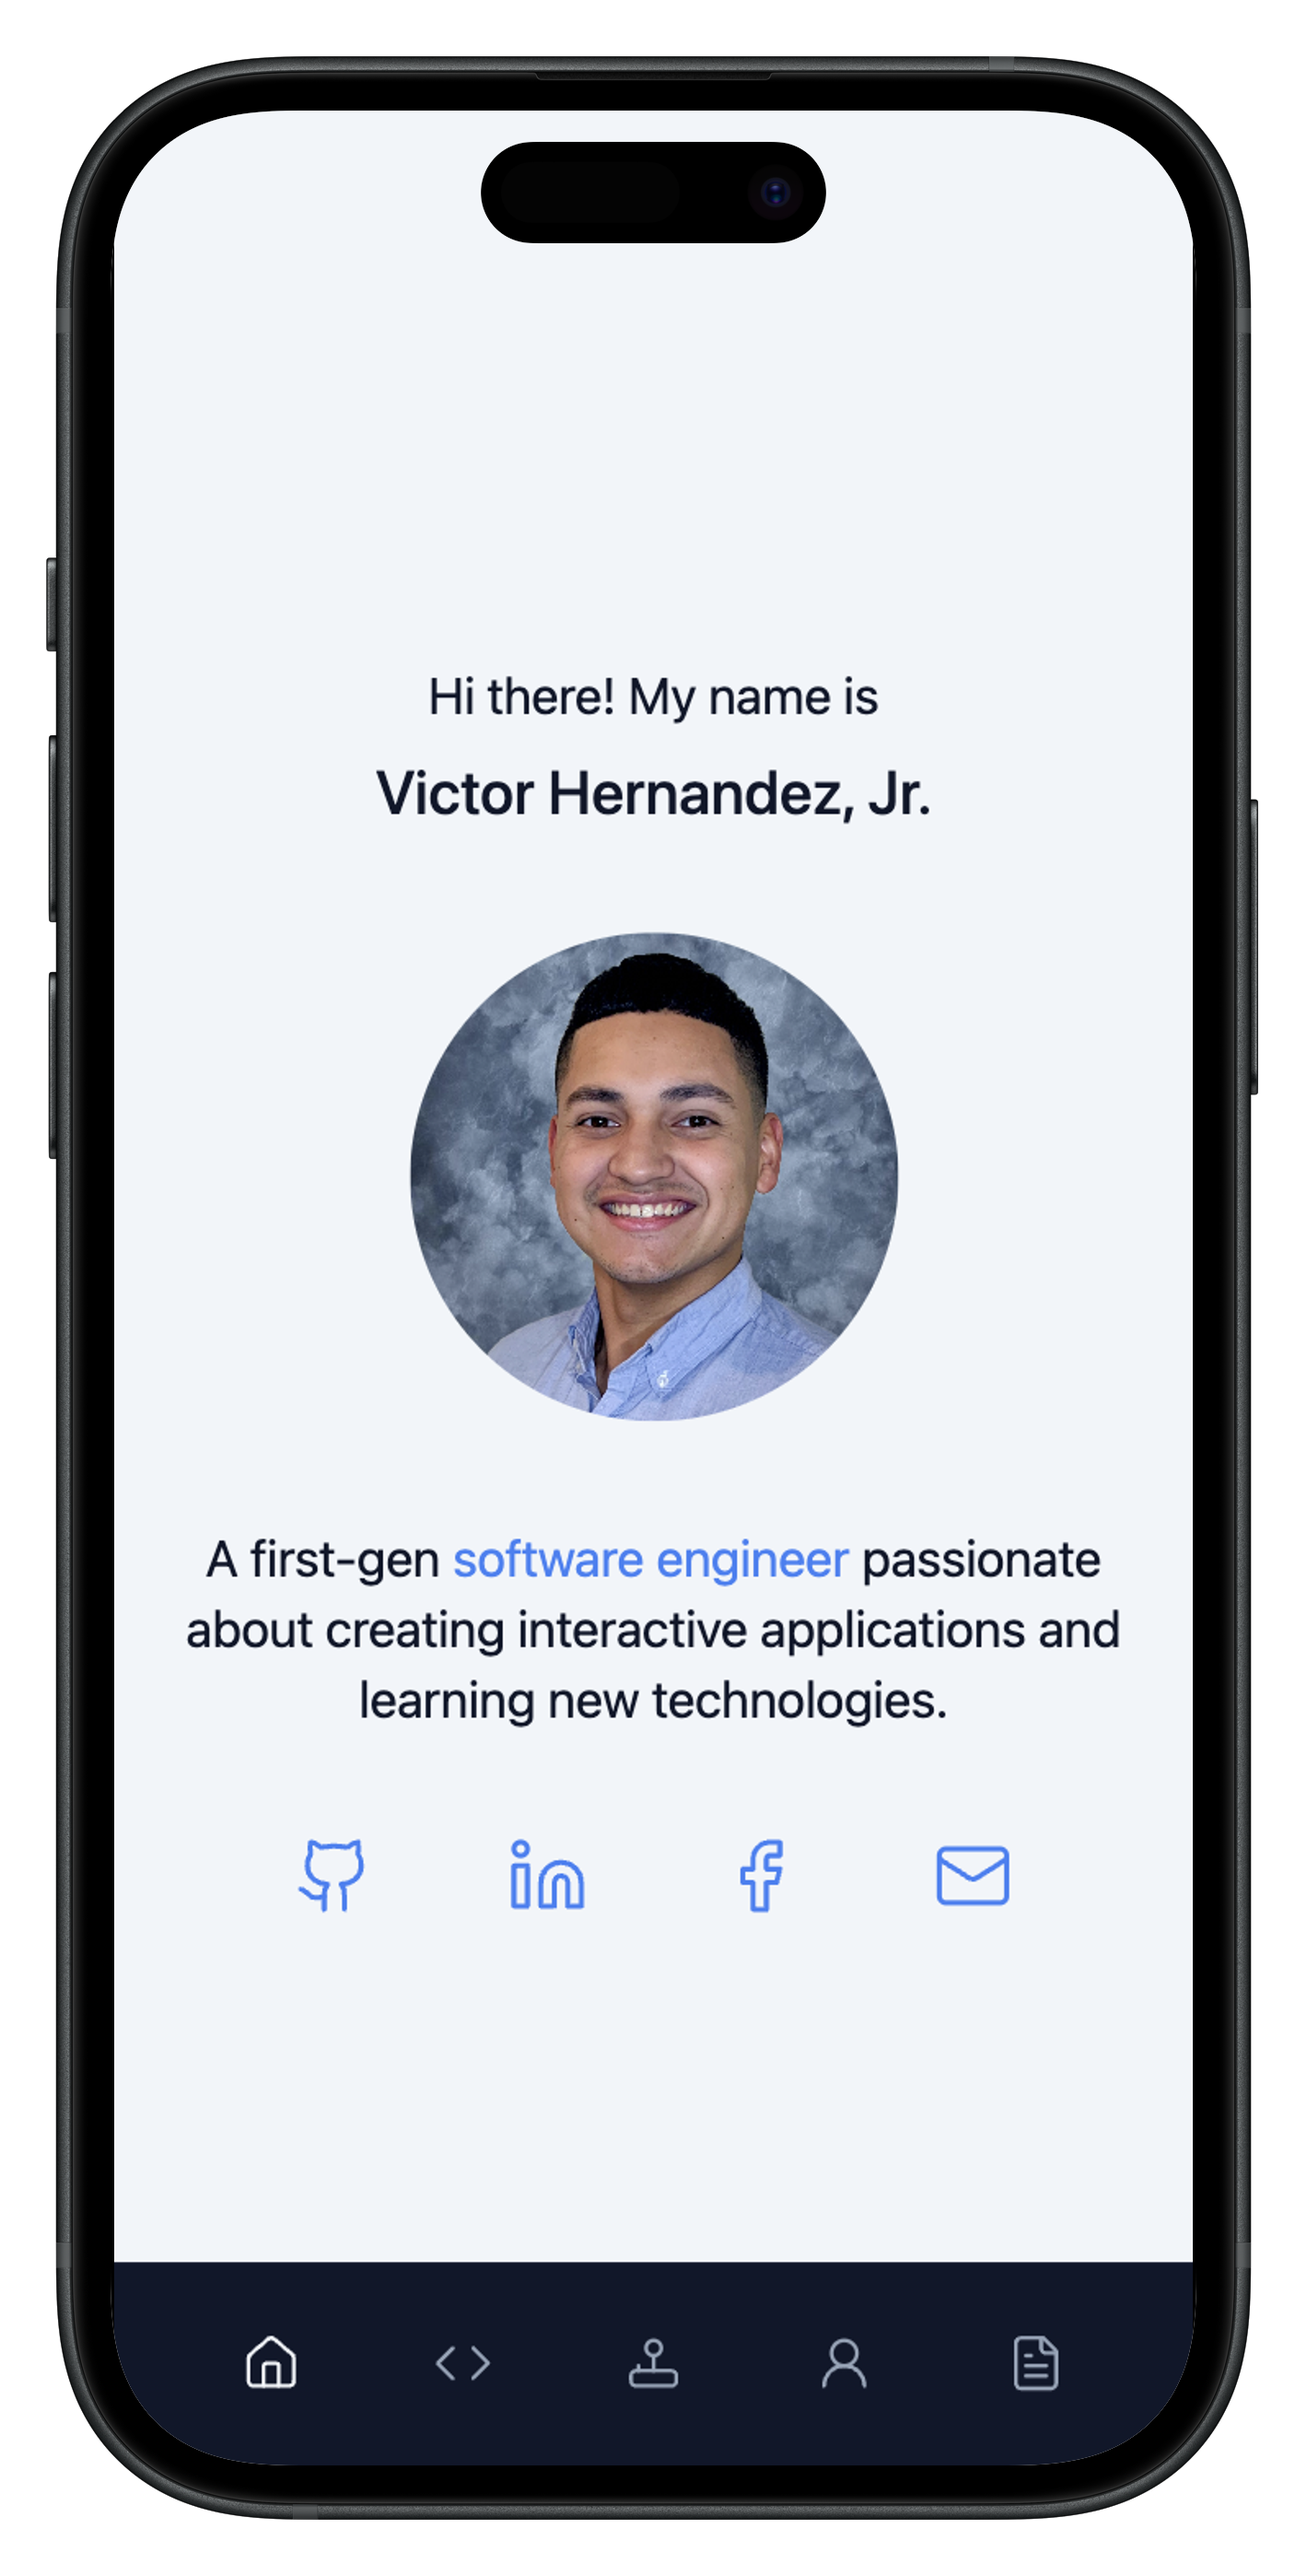
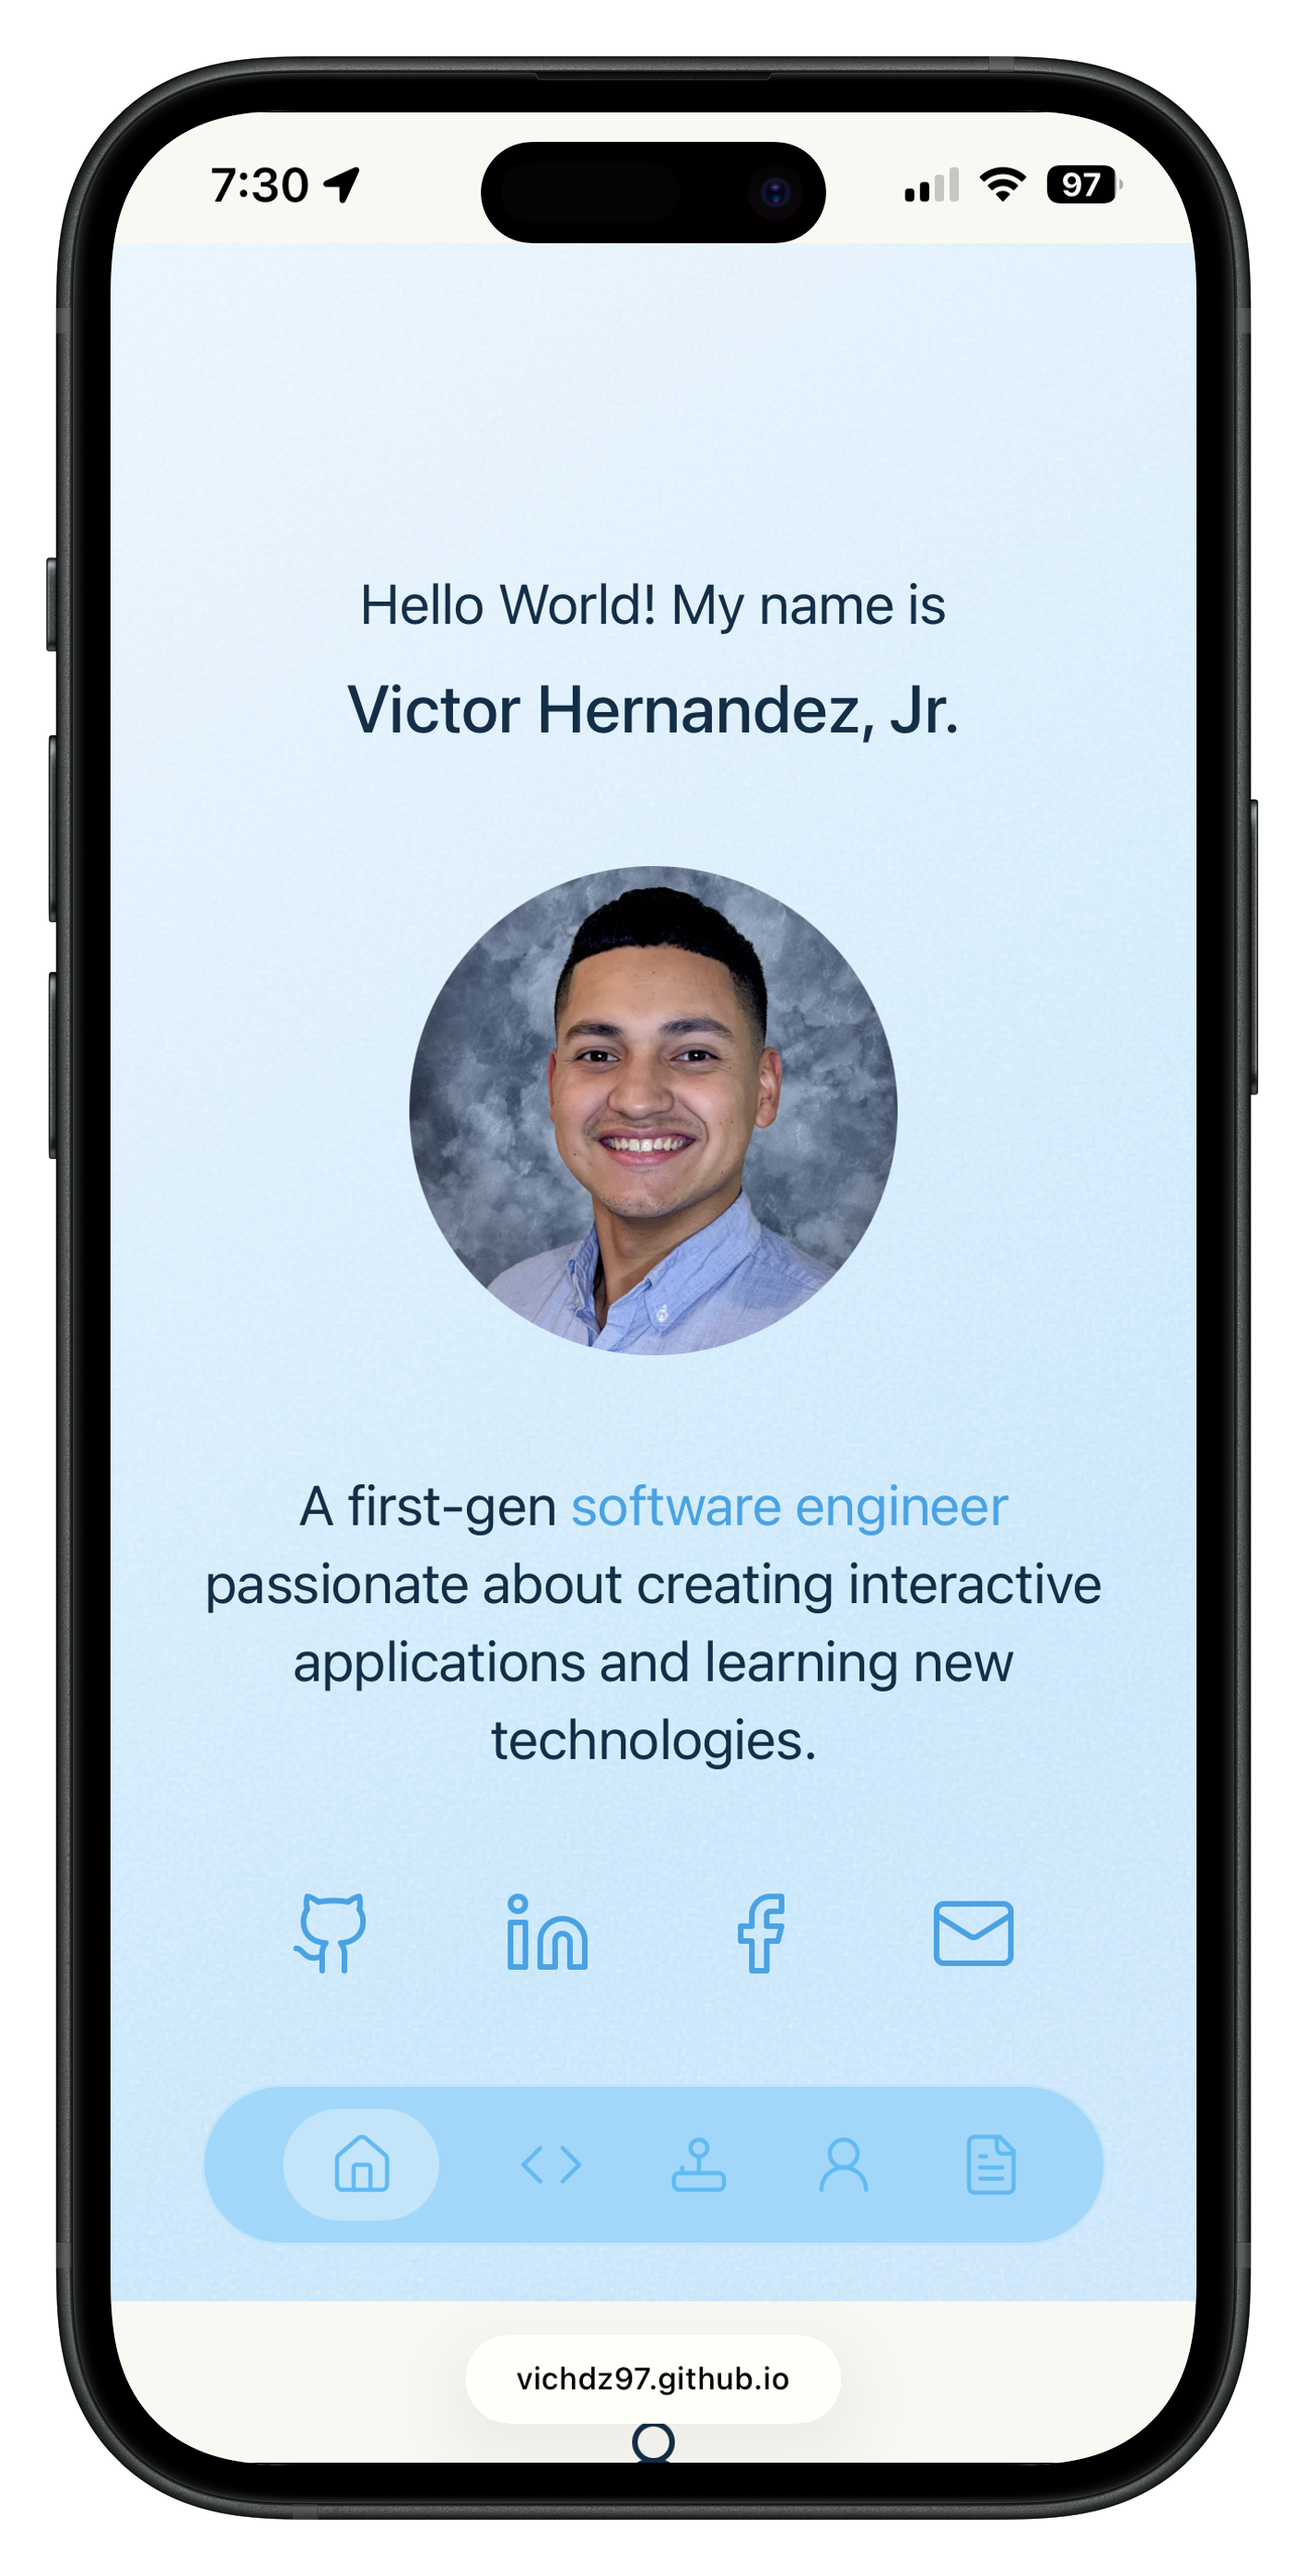
uploaded new screenshots and updated readme

diff --git a/README.md b/README.md
@@ -1,6 +1,6 @@
 # My Website Portfolio
 > [!NOTE]
-> Last updated Ocotber 26, 2026
+> Last updated November 18, 2026
 
 ## Summary
 Hello World! 
@@ -14,6 +14,7 @@ I would appreciate any feedback you might have about my [website](https://vichdz
 
 ## Technologies
 - [Angular](https://angular.dev) (*v15.2.0*)
+- [Aura Gradients](https://auragradients.vercel.app/) (*v1.0.0*)
 - [Devicon](https://devicon.dev) (*v2.17.0*)
 - [EmailJS](https://www.emailjs.com) (*v3.11.0*)
 - [Lucide Angular](https://lucide.dev/guide/packages/lucide-angular) (*v0.471.0*)
